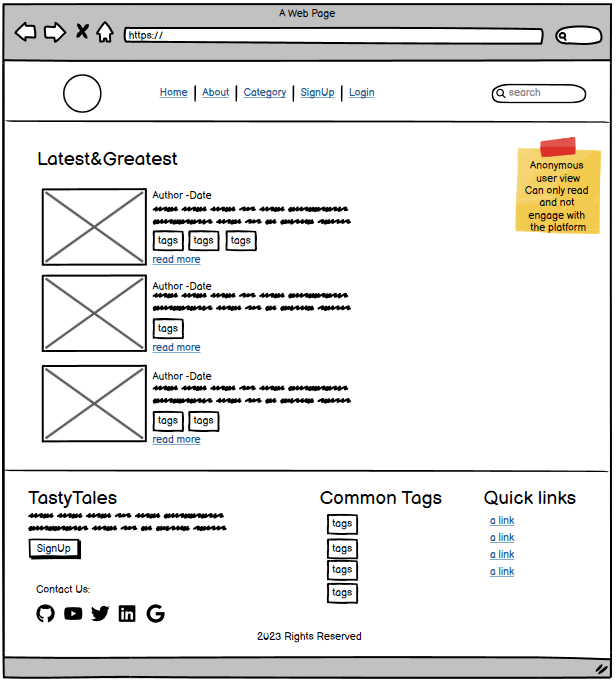
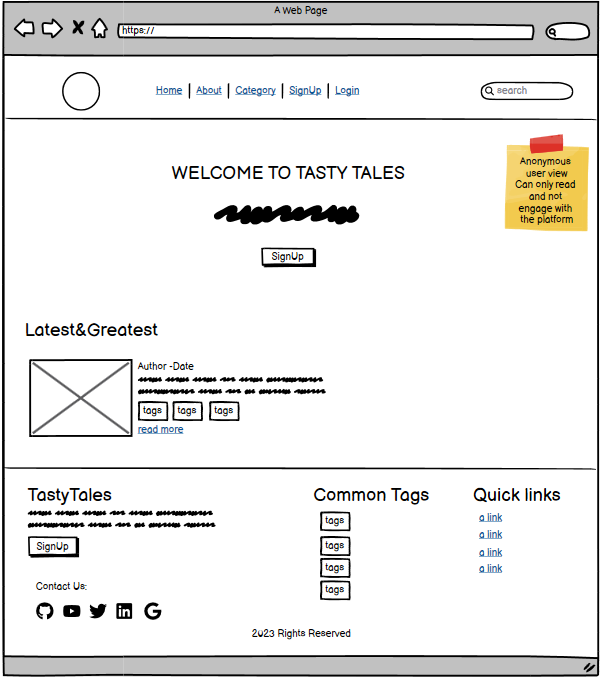
Add features images to README.md

Changed region(s): [[0.0, 0.0, 1.0, 1.0], [0.1495, 0.8647, 0.2691, 0.9265]]

diff --git a/templates/post_detail.html b/templates/post_detail.html
@@ -60,7 +60,7 @@
 
 <!-- The post content -->
 <div class="container">
-    <div class="row no-gutters">
+    <div class="row no-gutters mt-0">
         <div class="col-12 card mb-4">
             <div class="card-body">
                 <div class="content-container"> 

diff --git a/README.md b/README.md
@@ -146,11 +146,21 @@ The vibrant orange adds a pop of energy, stimulating creativity and appetite. It
     - **Logo:** A TastyTales logo with a link to the home page.
     - **Navigation Links:** Home, About, Category, New Post, and Profile (with dropdown for authenticated users). Login and Sign Up links are also included for non-authenticated users.
     - **Search Bar:** A search bar with a search button, allowing users to search for recipes.
-    ![Navbar Image](docs/img/.png)
+    <details><summary><b> Navbar Non-user Image</b></summary>
+    
+    ![Navbar Non-user Image](docs/img/features/navbar-invalid.png)
+    </details><br />
+    <details><summary><b>Navbar User Image</b></summary>
 
+    ![Navbar User Image](docs/img/features/navbar-valid.png)
+    </details><br />
+    <details><summary><b>Navbar User Dropdown Image</b></summary>
+    
+    ![Navbar User Dropdown Image](docs/img/features/navbar-dropdown.png)
+    </details><br />
+   
     ## 2. Message Alerts
     The template displays message alerts to users for various CRUD operations or other system messages. Messages include icons for success, info, warning, or error, along with a close button. Includes a JavaScript script that automatically removes message alerts after a timeout of 4 seconds, providing a clean user experience.
-    ![Message Alerts Image](docs/img/.png)
 
     ## 3. Footer
     The footer is divided into several sections:
@@ -159,12 +169,23 @@ The vibrant orange adds a pop of energy, stimulating creativity and appetite. It
     - **Quick Links:** Links to About, Category, New Post, Your Drafts, and user profile pages (if authenticated).
     - **Connect with Us:** Social media links (Google, Instagram, LinkedIn, GitHub) for users to connect with the platform.
     - **Footer Bottom:** Displays copyright information and states that all rights are reserved to TastyTales.
-    ![Footer Image](docs/img/.png)
+    
+    <details><summary><b>Footer Image</b></summary>
+
+    ![Footer Image](docs/img/features/footer.png)
+    </details><br />
+    <details><summary><b>Footer Non-users Image</b></summary>
+
+    ![Footer Non-users Image](docs/img/features/footer-invalid.png)
+    </details><br />
 
     ## 4. Main Page 
 
     This template extends the base.html template, indicating that it inherits its structure and styles.
-
+  - Hero Section
+    - Displays a welcoming message with the title "Welcome to TastyTales" for non-authenticated users.
+    - Showcases the essence of TastyTales, inviting users to join the culinary adventure.
+  - Blog List Column
     - Displays a large title "The Latest & Greatest."
     - Iterates over a list of blog posts (`post_list`) and displays each post in a card format.
     - If a featured image is present, it is displayed. Otherwise, a default image is used.
@@ -178,15 +199,12 @@ The vibrant orange adds a pop of energy, stimulating creativity and appetite. It
     - If pagination is enabled (is_paginated), standard pagination links are displayed to navigate between pages.
     - "Previous" and "Next" buttons are provided when applicable.
 
-    **Responsive Design**
-    - The layout is designed to be responsive, adapting to different screen sizes.
+    <details><summary><b>Main Page Image</b></summary>
 
-    **External Libraries**
-    - Utilizes FontAwesome for the heart icon.
+    ![ Main Page Image](docs/img/features/main-page.png)
+    </details><br />
 
-    ![ Main Page Image](docs/img/.png)
-
-    ## 5. Post Creation and Editing Page
+    ## 5. Post Creation Page
 
     This template is designed for editing and creating blog posts. It includes features to guide users through the editing process.
 
@@ -204,12 +222,16 @@ The vibrant orange adds a pop of energy, stimulating creativity and appetite. It
     - Includes a title, body, and an option to upload a featured image.
     - "Save Draft" button: Allows saving the post as a draft.
     - "Publish" button: Publishes the post.
+    
+    <details><summary><b>Add Post Image</b></summary>
 
-    ![ Image](docs/img/.png)
+    ![Add Post Image](docs/img/features/add-post.png)
+    </details><br />
 
     ## 6.Post Editing Page
 
     This template is designed for editing an existing blog post. It includes features to display an alert for post approval and a form for editing a post.
+    ![ Image]
 
     -  Provides a background image container for an enhanced visual experience.
     - Checks if the post has been successfully submitted.
@@ -221,8 +243,14 @@ The vibrant orange adds a pop of energy, stimulating creativity and appetite. It
     - Heading for the post editing section.
     -  Uses Crispy Forms to render the form with enhanced styling.
     - A button for submitting the updated post.
+    <details><summary><b>Post Awaiting Approval Image</b></summary>
 
-    ![ Image](docs/img/.png)
+    ![Post Awaiting Approval Image](docs/img/features/post-detail-awaiting-approval.png)
+    </details><br />
+    <details><summary><b>Edit Draft Image</b></summary>
+
+    ![Edit Draft Image](docs/img/features/edit-draft.png)
+    </details><br />
 
     ## 7. Post Deletion Confirmation Page
     This template is designed for confirming the deletion of a blog post. It includes features for displaying a confirmation message and providing options to either delete the post or cancel the action.
@@ -236,7 +264,10 @@ The vibrant orange adds a pop of energy, stimulating creativity and appetite. It
       - Button for confirming and submitting the deletion.
       - Button for canceling the deletion and redirecting to the home page.
 
-    ![ Image](docs/img/.png)
+    <details><summary><b>Delete Post Image</b></summary>
+
+    ![Delete Post Image](docs/img/features/delete-post.png)
+    </details><br />
 
     ## 8. Draft List Page
 
@@ -253,8 +284,11 @@ The vibrant orange adds a pop of energy, stimulating creativity and appetite. It
     - Handles the case when there are no drafts.
       - Displays a message encouraging the user to turn their draft ideas into posts.
         - Button for creating a new post.
+    
+    <details><summary><b>Draft List Image</b></summary>
 
-    ![ Image](docs/img/.png)
+    ![Draft List Image](docs/img/features/draft-list.png)
+    </details><br />
 
     ## 9. Draft Editing Template Features
 
@@ -268,8 +302,15 @@ The vibrant orange adds a pop of energy, stimulating creativity and appetite. It
       - Button for deleting the draft.
       - Button for saving the draft.
       - Button for publishing the draft.
+    
+    <details><summary><b>Draft List Image</b></summary>
 
-    ![ Image](docs/img/.png)
+    ![Draft List image](docs/img/features/draft-list.png)
+    </details><br />
+    <details><summary><b>Draft List Empty Image</b></summary>
+
+    ![Draft List image](docs/img/features/empty-draft.png)
+    </details><br />
 
     ## 10. Post Detail Page
 
@@ -297,7 +338,18 @@ The vibrant orange adds a pop of energy, stimulating creativity and appetite. It
       - Shows a login prompt if the user is not authenticated.
     - Modal for confirming the deletion of a comment.
 
-    ![ Image](docs/img/.png)
+    <details><summary><b> Masthead Image</b></summary>
+    
+    ![Masthead image](docs/img/features/masthead.png)
+    </details><br />
+    <details><summary><b>Post Detail Image</b></summary>
+    
+    ![Post detail image](docs/img/features/content.png)
+    </details><br />
+    <details><summary><b>Comment Section Image</b></summary>
+    
+    ![Comment image](docs/img/features/comment.png)
+    </details><br />
 
     ## 11. Category List Page
 
@@ -318,7 +370,15 @@ The vibrant orange adds a pop of energy, stimulating creativity and appetite. It
           - Each category is displayed in a column with a link to view posts in that category.
     - Link to navigate back to the home page.
 
-    ![ Image](docs/img/.png)
+    
+    <details><summary><b>Category Add List Image</b></summary>
+    
+    ![Category Image](docs/img/features/category-add-list.png)
+    </details><br />
+    <details><summary><b>Category List SignUp Image</b></summary>
+    
+    ![Category Image](docs/img/features/category-signup.png)
+    </details><br />
 
     ## 12. Category Posts Page
 
@@ -336,8 +396,14 @@ The vibrant orange adds a pop of energy, stimulating creativity and appetite. It
       - "Create a Post" button to redirect to the add post page.
 
     - Link to navigate back to the category list.
-
-    ![ Image](docs/img/.png)
+    <details><summary><b>Category Post Image</b></summary>
+    
+    ![Category Post Image](docs/img/features/category-post.png)
+    </details><br />
+    <details><summary><b>Category Empty Post Image</b></summary>
+    
+    ![Category Empty Post Image](docs/img/features/category-empty-post.png)
+    </details><br />
 
     ## 13. About Me Page
 
@@ -349,7 +415,10 @@ The vibrant orange adds a pop of energy, stimulating creativity and appetite. It
     - Invitation message.
       - Call-to-action button linking to the account signup page.
 
-    ![ Image](docs/img/.png)
+    <details><summary><b>About Image</b></summary>
+    
+    ![About Image](docs/img/features/about.png)
+    </details><br />
 
     ## 14. Search Results Page
 
@@ -372,8 +441,14 @@ The vibrant orange adds a pop of energy, stimulating creativity and appetite. It
     - If no search query is provided.
       -  Display a message indicating no search query.
       -  Display common tags section.
-
-    ![ Image](docs/img/.png)
+    <details><summary><b>Search Page Image</b></summary>
+    
+    ![Search Page Image](docs/img/features/search-page.png)
+    </details><br />
+    <details><summary><b>No Search Results Page Image</b></summary>
+    
+     ![No Search Results Page Image](docs/img/features/no-search-results.png)
+    </details><br />
 
     ## 15. Posts by Tag Page
 
@@ -397,10 +472,26 @@ The vibrant orange adds a pop of energy, stimulating creativity and appetite. It
             -  Post title with a link to the post detail page.
             - Post excerpt.
             - Display post tags.
+    <details><summary><b>Post Tag Page Image</b></summary>
+    
+    ![ Post Tag Image](docs/img/features/post-tag-page.png)
+    </details><br />
 
-    ![ Image](docs/img/.png)
-
-    ## 16. 404 Page Page
+    ## 16. SignUp, SignIn and SignOut Page
+    <details><summary><b>SignUp Image</b></summary>
+    
+    ![SignUp Image](docs/img/features/signup.png)
+    </details><br />
+    <details><summary><b>SignIn Image</b></summary>
+    
+    ![SignIn Image](docs/img/features/login.png)
+    </details><br />
+    <details><summary><b>SignOut Image</b></summary>
+    
+    ![SignOut Image](docs/img/features/signout.png)
+    </details><br />
+      
+    ## 17. 404 Page
 
     This template is designed to display a 404 page indicating that the requested page is unavailable. It includes a 404 heading, a message, and a search bar for users to navigate or search for content.
 
@@ -416,7 +507,10 @@ The vibrant orange adds a pop of energy, stimulating creativity and appetite. It
       - Form for the search bar. Input field for searching recipes.
           - Search button with a magnifying glass icon.
 
-    ![ Image](docs/img/.png)
+    <details><summary><b>Image</b></summary>
+    
+    ![ Image](docs/img/features/)
+    </details><br />
 
     [Back to top](<#table-of-contents>)
 
@@ -580,6 +674,8 @@ To run TastyTales on the local machine, I follow these steps:
   - Was used to to incorporate font styles.  
 - [Bootstrap](https://getbootstrap.com/)
   - Was used to create the front-end design.
+- [Animate.css](https://animate.style/)
+  - Was used to create animation to the project.
 - [GitPod:](https://gitpod.io/)
   - Gitpod was used as IDE to commit and push the project to GitHub.
 - [GitHub:](https://github.com/)
